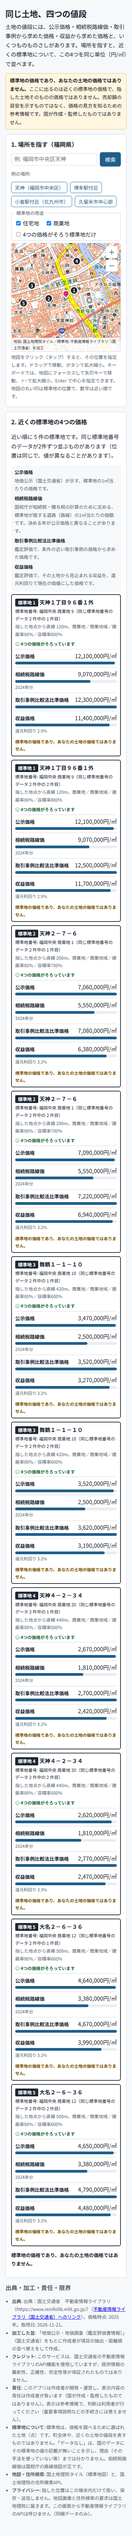
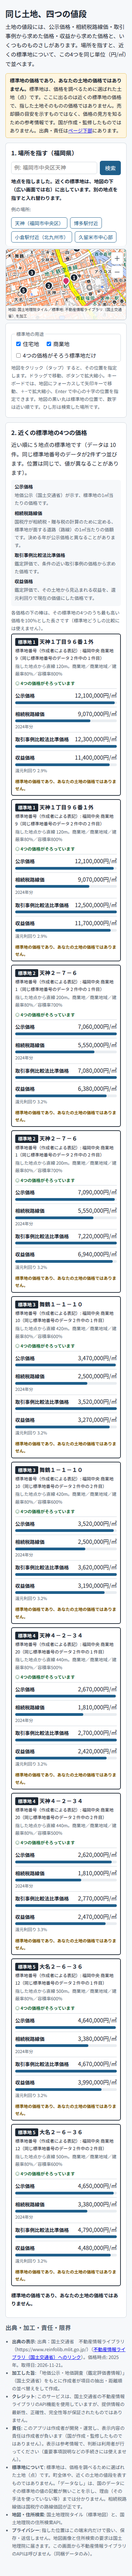
工兵: A4 デザイン審査 M1〜M6・L1・L4・L6 の反映（2列配置、検索の案内と印、中心の十字、件数の言い方、標準地の説明）

diff --git a/contests/ichibiz-2026/app/realestate-a4/web/index.html b/contests/ichibiz-2026/app/realestate-a4/web/index.html
@@ -11,51 +11,59 @@
 <header id="top">
   <h1>同じ土地、四つの値段</h1>
   <p class="lead">土地の値段には、公示価格・相続税路線価・取引事例から求めた価格・収益から求めた価格と、いくつものものさしがあります。場所を指すと、近くの標準地について、この4つを同じ単位（円/㎡）で並べます。</p>
-  <p class="warn"><strong><span id="noticeTop"></span>。</strong>ここに出るのは近くの標準地の価格で、指した土地そのものの価格ではありません。売却額の目安を示すものではなく、価格の見方を知るための参考情報です。国が作成・監修したものではありません。</p>
+  <p class="warn"><strong><span id="noticeTop"></span>。</strong>標準地は、価格を調べるために選ばれた土地（点）です。ここに出るのは近くの標準地の価格で、指した土地そのものの価格ではありません。売却額の目安を示すものではなく、価格の見方を知るための参考情報です。国が作成・監修したものではありません。出典・責任は<a href="#sources">ページ下部</a>にあります。</p>
   <p id="provisional" class="prov" hidden><strong>仮データです。</strong>実際の標準地ではありません（画面の確認用）。</p>
 </header>
 
-<main>
-  <section id="step1" class="panel">
+<main id="work">
+  <section id="step1" class="panel ctl">
     <h2>1. 場所を指す（福岡県）</h2>
     <form id="search" class="row">
       <label class="sr" for="q">住所・目印を検索</label>
       <input id="q" type="search" placeholder="例: 福岡市中央区天神" autocomplete="off">
       <button type="submit">検索</button>
     </form>
+    <p id="status" role="status" class="status">地図で場所を指すか、例の場所を選ぶと、近くの標準地が出ます。</p>
     <div class="row examples" role="group" aria-label="例の場所">
       <span class="hint">例の場所:</span>
       <span id="exButtons"></span>
     </div>
+  </section>
+
+  <div id="mapbox" class="mapbox">
+    <div id="map" role="application" aria-label="地図。クリックまたはタップで場所を指定" tabindex="0">
+      <div id="tiles"></div>
+      <canvas id="over"></canvas>
+      <div id="cross" aria-hidden="true"></div>
+      <div id="pin" hidden></div>
+      <div class="zoombtns"><button type="button" id="zin" aria-label="拡大">＋</button><button type="button" id="zout" aria-label="縮小">－</button></div>
+      <div class="attr">地図: 国土地理院タイル／標準地: 不動産情報ライブラリ（国土交通省）を加工</div>
+    </div>
+  </div>
+
+  <section id="opts" class="panel opt">
     <fieldset class="row uses" id="uses">
       <legend>標準地の用途</legend>
       <label><input type="checkbox" name="use" value="住宅地" checked> 住宅地</label>
       <label><input type="checkbox" name="use" value="商業地" checked> 商業地</label>
       <label><input type="checkbox" id="completeOnly"> 4つの価格がそろう標準地だけ</label>
     </fieldset>
-    <div id="map" role="application" aria-label="地図。クリックまたはタップで場所を指定" tabindex="0">
-      <div id="tiles"></div>
-      <canvas id="over"></canvas>
-      <div id="pin" hidden></div>
-      <div class="zoombtns"><button type="button" id="zin" aria-label="拡大">＋</button><button type="button" id="zout" aria-label="縮小">－</button></div>
-      <div class="attr">地図: 国土地理院タイル／標準地: 不動産情報ライブラリ（国土交通省）を加工</div>
-    </div>
-    <p class="hint">地図をクリック（タップ）すると、その位置を指定します。ドラッグで移動、ボタンで拡大縮小。キーボードでは、地図にフォーカスして矢印キーで移動、＋−で拡大縮小、Enter で中心を指定できます。地図の丸い印は標準地の位置で、数字は近い順です。</p>
+    <p class="hint">地図をクリック（タップ）すると、その位置を指定します。ドラッグで移動、ボタンで拡大縮小。キーボードでは、地図にフォーカスして矢印キーで移動、＋−で拡大縮小、Enter で中心の十字の位置を指定できます。地図の黒い丸は標準地の位置で、数字は近い順です。ひし形は検索した場所です。</p>
   </section>
 
-  <section id="step2" class="panel">
+  <section id="step2" class="panel res">
     <h2>2. 近くの標準地の4つの価格</h2>
-    <p id="status" role="status">地図で場所を指すか、例の場所を選ぶと、ここに近くの標準地が出ます。</p>
+    <p id="summary" class="summary">場所を指すと、結果がここに出ます（スマートフォンでは地図の下）。</p>
     <div id="legendBox"></div>
     <div id="cards" class="cards" aria-live="polite"></div>
     <p id="notice2" class="notice2" hidden></p>
   </section>
 </main>
 
-<footer>
+<footer id="sources">
   <h2>出典・加工・責任・限界</h2>
   <ul>
-    <li><strong>出典</strong>: <span id="attribution"></span>（<a id="libLink" href="https://www.reinfolib.mlit.go.jp/" rel="noopener">不動産情報ライブラリ（国土交通省）へのリンク</a>）。価格時点: <span id="year">—</span>年。取得日: <span id="fetchedAt">—</span>。</li>
+    <li><strong>出典の表示</strong>: <span id="attribution"></span>（<a id="libLink" href="https://www.reinfolib.mlit.go.jp/" rel="noopener">不動産情報ライブラリ（国土交通省）へのリンク</a>）。価格時点: <span id="year">—</span>年。取得日: <span id="fetchedAt">—</span>。</li>
     <li><strong>加工した旨</strong>: <span id="processed"></span>。</li>
     <li><strong>クレジット</strong>: <span id="credit"></span>。</li>
     <li><strong>責任</strong>: <span id="resp"></span>。</li>

diff --git a/contests/ichibiz-2026/app/realestate-a4/web/app.js b/contests/ichibiz-2026/app/realestate-a4/web/app.js
@@ -11,7 +11,7 @@
     { label: '小倉駅付近（北九州市）', lon: 130.8826, lat: 33.8869 },
     { label: '久留米市中心部', lon: 130.5083, lat: 33.3194 },
   ];
-  const state = { data: null, view: { lon: 130.4, lat: 33.59, z: 14 }, pin: null, results: [] };
+  const state = { mark: null, data: null, view: { lon: 130.4, lat: 33.59, z: 14 }, pin: null, results: [] };
 
   // ---- 地図（平面の座標変換） ----
   const map = $('map'), tiles = $('tiles'), cv = $('over'), pinEl = $('pin');
@@ -56,6 +56,11 @@
     const g = cv.getContext('2d');
     g.setTransform(dpr, 0, 0, dpr, 0, 0); g.clearRect(0, 0, w, h);
     g.font = 'bold 13px sans-serif'; g.textAlign = 'center'; g.textBaseline = 'middle';
+    if (state.mark) { // 検索した場所: ひし形（ピンとは形を変える）
+      const m = project(state.mark.lon, state.mark.lat);
+      g.beginPath(); g.moveTo(m.x, m.y - 12); g.lineTo(m.x + 12, m.y); g.lineTo(m.x, m.y + 12); g.lineTo(m.x - 12, m.y); g.closePath();
+      g.fillStyle = '#f0a000'; g.fill(); g.lineWidth = 2.5; g.strokeStyle = '#fff'; g.stroke(); g.lineWidth = 1; g.strokeStyle = '#1d2733'; g.stroke();
+    }
     state.results.forEach((e, i) => {
       if (e.part > 1) return; // 同じ標準地番号は同じ位置なので、丸は1つ
       const p = project(e.point.lon, e.point.lat);
@@ -106,14 +111,14 @@
     if (!state.data) return;
     state.pin = { lon, lat };
     showResults();
-    $('step2').scrollIntoView({ behavior: 'smooth', block: 'start' });
+    $('status').textContent = '地点を指しました。近くの標準地は、地図の下（広い画面では右）に出しています。別の地点を指すと入れ替わります。';
   }
   function showResults() {
     if (!state.pin || !state.data) return;
     const u = uses();
-    if (!u.length) { state.results = []; $('status').textContent = '標準地の用途を1つ以上選んでください。'; $('cards').innerHTML = ''; $('notice2').hidden = true; render(); return; }
+    if (!u.length) { state.results = []; $('summary').textContent = '標準地の用途を1つ以上選んでください。'; $('legendBox').innerHTML = ''; $('cards').innerHTML = ''; $('notice2').hidden = true; render(); return; }
     state.results = Lib.nearest(state.data.points, state.pin.lon, state.pin.lat, { n: Lib.DEFAULT_COUNT, uses: u, complete: $('completeOnly').checked });
-    $('status').textContent = Lib.summaryText(state.results);
+    $('summary').textContent = Lib.summaryText(state.results, { complete: $('completeOnly').checked });
     $('legendBox').innerHTML = state.results.length ? Lib.legendHtml() : '';
     $('cards').innerHTML = state.results.map((e, i) => Lib.cardHtml(e, i + 1)).join('');
     $('notice2').hidden = !state.results.length; $('notice2').textContent = Lib.NOTICE + '。';
@@ -131,8 +136,9 @@
       const j = await r.json();
       if (!j.length) { $('status').textContent = '見つかりませんでした。地図を直接クリックしてください。'; return; }
       const [lon, lat] = j[0].geometry.coordinates;
-      state.view = { lon, lat, z: 15 }; state.pin = null; state.results = []; render();
-      $('status').textContent = '「' + j[0].properties.title + '」付近に移動しました。土地の位置を地図でクリックしてください（地図にフォーカスして Enter でも、中心を指せます）。';
+      state.view = { lon, lat, z: 15 }; state.pin = null; state.results = []; state.mark = { lon, lat };
+      $('summary').textContent = '場所を指すと、結果がここに出ます（スマートフォンでは地図の下）。'; $('legendBox').innerHTML = ''; $('cards').innerHTML = ''; $('notice2').hidden = true; render();
+      $('status').textContent = '「' + j[0].properties.title + '」付近に移動しました（地図のひし形が検索した場所です）。次に、土地の位置を地図でクリックしてください（地図にフォーカスして Enter でも、中心の十字を指せます）。';
     } catch (err) { $('status').textContent = '検索に失敗しました。地図を直接クリックしてください。'; }
   });
   for (const ex of EXAMPLES) {
@@ -158,7 +164,7 @@
     state.data = d;
     $('year').textContent = d.year; $('fetchedAt').textContent = d.fetchedAt;
     if (d.provisional) $('provisional').hidden = false;
-    $('status').textContent = '同梱データ ' + d.points.length.toLocaleString('en-US') + ' 件の標準地（' + d.pref.name + '）。地図で場所を指すか、例の場所を選んでください。';
+    $('status').textContent = Lib.loadedText(d) + '地図で場所を指すか、例の場所を選んでください。';
   }).catch(() => { $('status').textContent = 'データを読み込めませんでした（data/fukuoka.json が未取得です）。'; });
 
   window.App = { state, choose };

diff --git a/contests/ichibiz-2026/app/realestate-a4/web/lib.js b/contests/ichibiz-2026/app/realestate-a4/web/lib.js
@@ -105,8 +105,8 @@
     const miss = priceRows(p).filter((r) => !r.value).length;
     const comp = miss ? '4つのうち ' + miss + ' つはデータなし' : '4つの価格がそろっています';
     return '<article class="card" data-id="' + esc(p.id) + '">' +
-      '<h4><span class="nth">標準地 ' + (entry.parcel || nth) + '</span> ' + esc(place) + '</h4>' +
-      '<p class="pn">標準地番号: ' + esc(parcelNo(p)) + (entry.parts > 1 ? '（同じ標準地番号のデータ ' + entry.parts + ' 件中の ' + entry.part + ' 件目）' : '') + '</p>' +
+      '<h3><span class="nth">標準地 ' + (entry.parcel || nth) + '</span> ' + esc(place) + '</h3>' +
+      '<p class="pn">標準地番号（作成者による表記）: ' + esc(parcelNo(p)) + (entry.parts > 1 ? '（同じ標準地番号のデータ ' + entry.parts + ' 件中の ' + entry.part + ' 件目）' : '') + '</p>' +
       '<p class="cm">指した地点から直線 ' + esc(distText(entry.distance)) + '。' + esc(meta) + '</p>' +
       '<p class="cc' + (miss ? ' part' : '') + '">' + esc(comp) + '</p>' +
       '<ul class="prices">' + rows + '</ul>' +
@@ -115,15 +115,22 @@
 
   /** 4つの価格の見方（1回だけ出す定義）。HTML */
   function legendHtml() {
-    return '<dl class="legend">' + PRICES.map((d) => '<dt>' + esc(d.label) + '</dt><dd>' + esc(d.note) + '</dd>').join('') + '</dl>';
+    return '<dl class="legend">' + PRICES.map((d) => '<dt>' + esc(d.label) + '</dt><dd>' + esc(d.note) + '</dd>').join('') + '</dl>' +
+      '<p class="hint">各価格の下の棒は、その標準地の4つのうち最も高い価格を100%とした長さです（標準地どうしの比較には使えません）。</p>';
   }
 
   /** 結果の見出し文（近くに無い時の注意を含む） */
-  function summaryText(entries) {
+  function summaryText(entries, opts) {
     if (!entries.length) return '近くの標準地が見つかりませんでした。';
     const far = entries[0].distance > FAR_M;
     const parcels = new Set(entries.map((e) => e.point.id)).size, multi = entries.length > parcels;
-    return '近い順に ' + parcels + ' 件の標準地です。' + (multi ? '同じ標準地番号のデータが2件ずつ並ぶものがあります（位置は同じで、値が異なることがあります）。' : '') + (far ? '最も近い標準地でも ' + distText(entries[0].distance) + ' 離れています。この地点の近くには標準地が少ない地域です。' : '');
+    return '近い順に ' + parcels + ' 地点の標準地です' + (opts && opts.complete ? '（4つの価格がそろう標準地だけ）' : '') + (multi ? '（データは ' + entries.length + ' 件。同じ標準地番号のデータが2件ずつ並びます。位置は同じで、値が異なることがあります）' : '') + '。' + (far ? '最も近い標準地でも ' + distText(entries[0].distance) + ' 離れています。この地点の近くには標準地が少ない地域です。' : '');
+  }
+
+  /** 読み込み完了の案内。標準地（標準地番号）の数とデータの件数を分けて書く */
+  function loadedText(d) {
+    const parcels = new Set(d.points.map((p) => p.id)).size;
+    return '同梱データ: ' + d.pref.name + ' 標準地 ' + parcels.toLocaleString('en-US') + ' 地点（データ ' + d.points.length.toLocaleString('en-US') + ' 件）。';
   }
 
   /** 読み込んだデータの検証。形が合わなければ null */
@@ -133,7 +140,7 @@
     return d;
   }
 
-  const api = { URL_LIB, CREDIT, ATTRIBUTION, PROCESSED, RESPONSIBILITY, NOTICE, PRICES, NODATA, DEFAULT_COUNT, FAR_M, haversine, nearest, yen, rateText, distText, parcelNo, priceRows, hasAll, MISSING_NOTE, cardHtml, legendHtml, summaryText, validate, esc };
+  const api = { URL_LIB, CREDIT, ATTRIBUTION, PROCESSED, RESPONSIBILITY, NOTICE, PRICES, NODATA, DEFAULT_COUNT, FAR_M, haversine, nearest, yen, rateText, distText, parcelNo, priceRows, hasAll, MISSING_NOTE, cardHtml, legendHtml, summaryText, loadedText, validate, esc };
   if (typeof module !== 'undefined' && module.exports) module.exports = api;
   else root.Lib = api;
 })(typeof window !== 'undefined' ? window : globalThis);

diff --git a/contests/ichibiz-2026/app/realestate-a4/web/style.css b/contests/ichibiz-2026/app/realestate-a4/web/style.css
@@ -18,7 +18,7 @@ fieldset.uses legend { font-size:.85rem; color:var(--muted); padding:0 4px; }
 #exButtons { display:inline-flex; gap:8px; flex-wrap:wrap; }
 .sr { position:absolute; left:-9999px; }
 .hint { color:var(--muted); font-size:.85rem; margin:4px 0; }
-#map { position:relative; width:100%; height:420px; overflow:hidden; background:#dde3e8; border:1px solid var(--line); border-radius:6px; touch-action:none; cursor:grab; }
+#map { position:relative; width:100%; height:100%; overflow:hidden; background:#dde3e8; border:1px solid var(--line); border-radius:6px; touch-action:none; cursor:grab; }
 #tiles, #over { position:absolute; inset:0; }
 #tiles img { position:absolute; width:256px; height:256px; user-select:none; -webkit-user-drag:none; pointer-events:none; }
 #over { pointer-events:none; width:100%; height:100%; }
@@ -34,7 +34,7 @@ footer ul { padding-left: 1.2rem; }
 .legend dd { margin:0; color:var(--muted); }
 .cards { display:grid; grid-template-columns: repeat(auto-fit, minmax(min(100%, 300px), 1fr)); gap:10px; }
 .card { border:2px solid var(--fg); border-radius:6px; padding:8px 10px; background:#fff; min-width:0; }
-.card h4 { margin:0 0 2px; font-size:1rem; }
+.card h3 { margin:0 0 2px; font-size:1rem; }
 .nth { display:inline-block; background:var(--fg); color:#fff; border-radius:3px; padding:0 8px; font-size:.85rem; }
 .cm { margin:0 0 6px; font-size:.82rem; color:var(--muted); }
 .pn { margin:0 0 2px; font-size:.8rem; }
@@ -56,8 +56,28 @@ ul.prices { list-style:none; margin:0; padding:0; }
 .notice2 { font-weight:bold; font-size:.9rem; }
 
 @media (max-width: 640px) {
-  #map { height: 320px; }
   .legend { grid-template-columns: 1fr; }
   .legend dd { margin-bottom:4px; }
 }
 @media print { #map, .zoombtns, #search, .examples, #uses { display:none; } }
+
+/* 配置: 広い画面は左に「場所を指す」と地図、右に結果（結果の中だけスクロール）。狭い画面は地図を上に固定して、結果を下に出す */
+#work { display:grid; grid-template-columns: minmax(0, 5fr) minmax(0, 6fr); grid-template-areas: "ctl res" "map res" "opt res"; gap:0 14px; align-items:start; }
+.ctl { grid-area:ctl; margin-bottom:0; border-bottom:0; border-bottom-left-radius:0; border-bottom-right-radius:0; padding-bottom:4px; }
+.mapbox { grid-area:map; height:372px; background:#fff; border:1px solid var(--line); border-top:0; padding:0 16px 16px; }
+.opt { grid-area:opt; margin-top:0; border-top:0; border-top-left-radius:0; border-top-right-radius:0; }
+.mapbox #map { height:100%; }
+.res { grid-area:res; position:sticky; top:8px; max-height:calc(100vh - 16px); overflow:auto; }
+.status { margin:4px 0; font-size:.9rem; font-weight:bold; }
+.summary { margin:4px 0; }
+#cross { position:absolute; left:50%; top:50%; width:28px; height:28px; margin:-14px 0 0 -14px; display:none; pointer-events:none;
+  background:linear-gradient(#1d2733,#1d2733) center/2px 100% no-repeat, linear-gradient(#1d2733,#1d2733) center/100% 2px no-repeat; filter:drop-shadow(0 0 2px #fff); }
+#map:focus-visible #cross { display:block; }
+.cards { grid-template-columns: repeat(auto-fit, minmax(min(100%, 260px), 1fr)); }
+@media (max-width: 900px) {
+  #work { display:block; }
+  .ctl { margin-bottom:8px; border-radius:8px; }
+  .mapbox { position:sticky; top:0; z-index:5; height:210px; padding:0; border:1px solid var(--line); border-radius:8px; margin:0 0 8px; }
+  .opt { border-top:1px solid var(--line); border-radius:8px; margin-top:0; }
+  .res { position:static; max-height:none; overflow:visible; }
+}

diff --git a/contests/ichibiz-2026/app/realestate-a4/README.md b/contests/ichibiz-2026/app/realestate-a4/README.md
@@ -10,7 +10,8 @@
 - 値のある件数（1,758件中）: 公示価格1,758、取引事例比較法比準価格1,758、相続税路線価938（住宅地544・商業地394）、収益価格・還元利回り904（住宅地422・商業地482）、4つ全てそろう708（住宅地318・商業地390）。偵察の実打ちの「全件で値あり」とは違うが、空・0・「-」を値なしとして数えたため（取得スクリプトは0・「-」・空を値なしにする）。
 - 値が無い行は「データなし」と、「国のデータにこの標準地の値の記載がありません」を出す。理由（路線価でなく倍率で評価する地域、その手法を使っていない等）はデータから確かめていないので断定しない。カードの上に「4つの価格がそろっています」「4つのうち n つはデータなし」を出し、「4つの価格がそろう標準地だけ」の切替で絞れる。
 - **同じ標準地番号のデータが全て2件ずつある**: 1,758件は標準地番号で数えると879で、どの番号も2件（位置は同じ。公示価格が同じものは276組、取引事例比較法比準価格が異なるものは677組）。理由（例: 鑑定評価書が複数ある等）はデータの項目からは確かめていないので書かない。画面は、標準地番号（地域名・用途区分・連番）を見出しに出し、近い順に標準地番号の数で5件を選び、同じ番号の2件は続けて「同じ標準地番号のデータ2件中の n 件目」と添える。地図の丸は番号ごとに1つ。
-- スクリーンショット: `docs/shot-1280.png`・`docs/shot-390.png`（天神の例、実データ、横スクロールなし）。
+- スクリーンショット（`docs/`）: `shot-1280.png`・`shot-390.png`（全体）、`*-view.png`（地点を選んだ直後の画面。自動スクロールしない）、`*-search.png`（住所検索の直後）、`*-focus.png`（キーボードで地図にフォーカスした時の中心の十字）。実データ、横スクロールなし。
+- 配置（デザイン審査 2026-11-21 の M1〜M6・L1・L4・L6 を反映）: 広い画面（900px超）は左に「場所を指す」と地図、右に結果（結果の中だけスクロール）。狭い画面は地図を上に固定（高さ210px）して結果を下に出す。地点を選んでも自動スクロールしない。案内と検索した場所の印（ひし形）は検索欄のすぐ下。地図にフォーカス中は中心の十字を出す。件数は「標準地 879 地点（データ 1,758 件）」の形で分けて書く。標準地番号は国の表記（用途区分の数字つき）が公式資料で確かめられないため、「（作成者による表記）」を添えた。S1（同じ標準地の2件）は情報部の確認待ちで未着手。
 
 ## データ取得（総司令官が実行）
 ```
